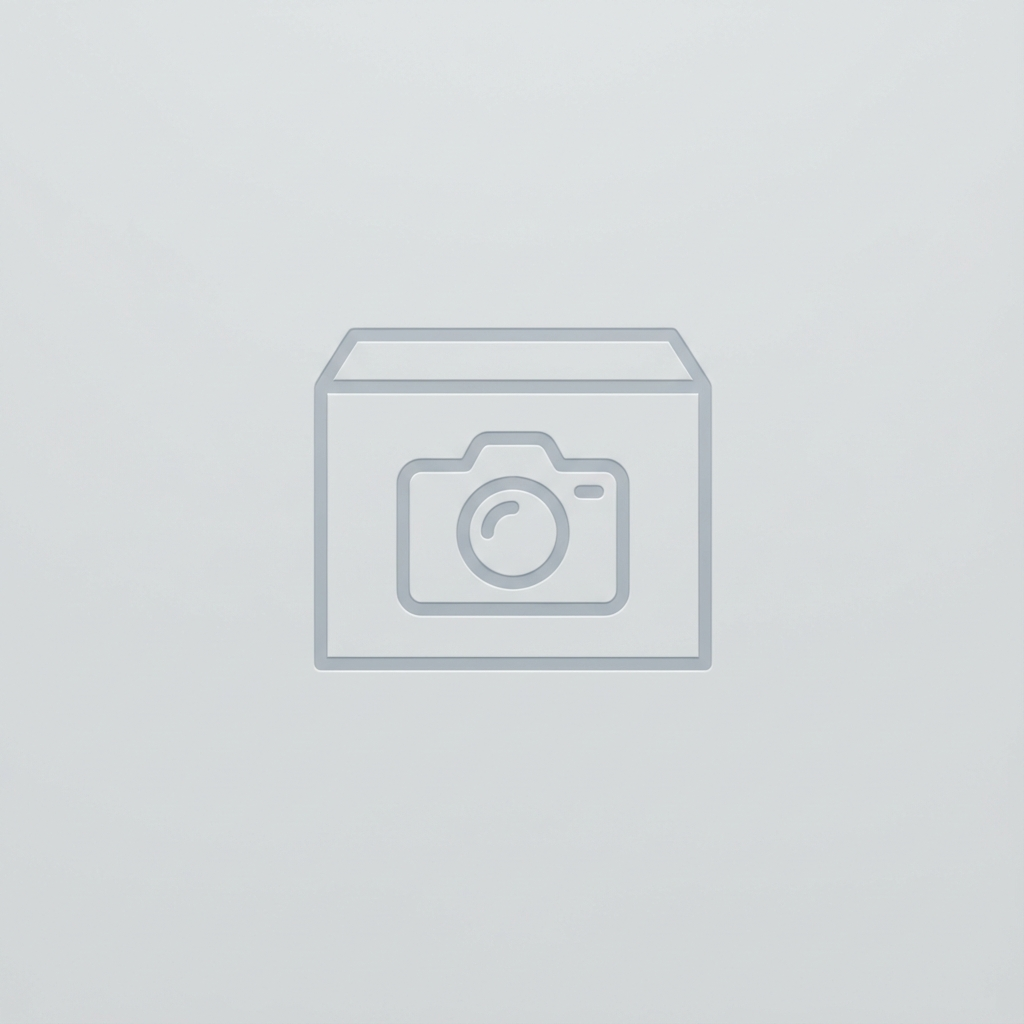
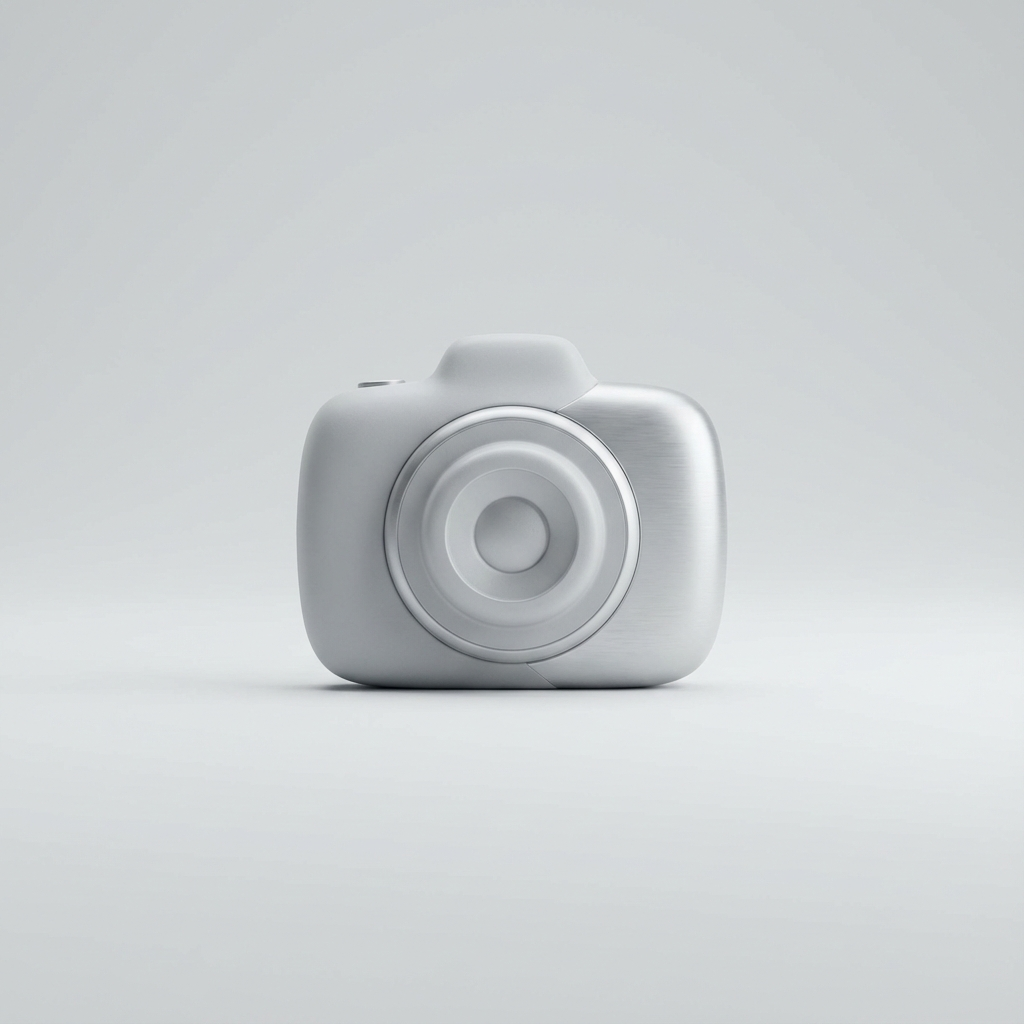
Implementación de Device ID, envíos detallados y manejo de rechazos

diff --git a/bolushop/app/api/create-preference/route.ts b/bolushop/app/api/create-preference/route.ts
@@ -1,103 +1,105 @@
 import { NextRequest, NextResponse } from 'next/server';
-import MercadoPagoConfig, { Preference } from 'mercadopago';
+import { MercadoPagoConfig, Preference } from 'mercadopago';
 import { createOrder } from '@/lib/db';
-import { Order } from '@/lib/types';
-import { CartItem } from '@/lib/cart';
 import { v4 as uuidv4 } from 'uuid';
 
-// Configurar el cliente de Mercado Pago con el Token de Checkout Pro
-const client = new MercadoPagoConfig({
-    accessToken: process.env.MP_PRO_ACCESS_TOKEN || ''
-});
+// Configuración mínima y directa
+const accessToken = process.env.MP_PRO_ACCESS_TOKEN || process.env.MP_ACCESS_TOKEN || '';
+const client = new MercadoPagoConfig({ accessToken });
 
 export async function POST(req: NextRequest) {
     try {
-        const body = await req.json();
-        const { cart, shippingCost, formData } = body;
-
-        if (!cart || cart.length === 0) {
-            return NextResponse.json({ error: 'El carrito está vacío' }, { status: 400 });
-        }
-
+        const { cart, shippingCost, formData } = await req.json();
         const orderId = uuidv4();
 
-        // Determinar URL base para los retornos
-        const protocol = req.headers.get('x-forwarded-proto') || 'https';
-        const host = req.headers.get('host');
-        let baseUrl = process.env.NEXT_PUBLIC_SITE_URL || `${protocol}://${host}`;
-        baseUrl = baseUrl.replace(/\/$/, '');
+        // 1. Detección de URL Base (Simpificada para Localhost)
+        const host = req.headers.get('host') || 'localhost:3000';
+        const protocol = host.includes('localhost') ? 'http' : 'https';
+        const baseUrl = `${protocol}://${host}`;
 
-        // Construir los ítems para Mercado Pago
-        const items = cart.map((item: CartItem) => ({
-            id: item.productId,
+        console.log('--- REWRITE: Creación de Preferencia ---');
+        console.log('Base URL:', baseUrl);
+        console.log('Order ID:', orderId);
+
+        // 2. Mapeo de Items
+        const items = cart.map((item: any) => ({
+            id: item.productId || item.id,
             title: item.name,
             unit_price: Number(item.price),
             quantity: Number(item.quantity),
             currency_id: 'ARS',
-            picture_url: item.image,
-            description: item.name
+            picture_url: item.image?.startsWith('http') ? item.image : `${baseUrl}${item.image}`
         }));
 
-        // Agregar el costo de envío como un ítem si es mayor a 0
         if (shippingCost > 0) {
             items.push({
-                id: 'shipping',
+                id: 'shipping-cost',
                 title: 'Costo de Envío',
                 unit_price: Number(shippingCost),
                 quantity: 1,
-                currency_id: 'ARS',
-                description: 'Envío a domicilio'
+                currency_id: 'ARS'
             });
         }
 
-        const preference = new Preference(client);
-
-        const response = await preference.create({
-            body: {
-                items,
-                payer: {
-                    name: formData.name,
-                    email: formData.email,
-                    phone: {
-                        number: formData.phone.replace(/\D/g, '')
-                    },
-                    address: {
-                        street_name: formData.address,
-                        zip_code: formData.zipCode || '1000'
-                    }
+        // 3. Payload de la Preferencia (Estructura Estricta SDK v2)
+        const preferenceBody: any = {
+            items,
+            payer: {
+                name: formData.name.split(' ')[0] || 'Cliente',
+                surname: formData.name.split(' ').slice(1).join(' ') || 'BoluShop',
+                email: formData.email,
+                phone: {
+                    number: formData.phone?.replace(/\D/g, '') || '1122334455'
                 },
-                back_urls: {
-                    success: `${baseUrl}/exito`,
-                    failure: `${baseUrl}/rechazado`,
-                    pending: `${baseUrl}/exito`
-                },
-                auto_return: 'approved',
-                external_reference: orderId,
-                notification_url: `${baseUrl}/api/webhook/mercadopago`,
-                metadata: {
-                    order_id: orderId,
-                    items: cart
+                address: {
+                    street_name: formData.address || 'Calle Falsa 123',
+                    zip_code: formData.zipCode || '1000'
                 }
-            }
-        });
+            },
+            back_urls: {
+                success: `${baseUrl}/exito`,
+                failure: `${baseUrl}/rechazado`,
+                pending: `${baseUrl}/exito`
+            },
+            auto_return: 'approved',
+            external_reference: orderId,
+            metadata: {
+                order_id: orderId
+            },
+            // NOTA: notification_url NO puede ser localhost para que MP lo acepte
+            notification_url: host.includes('localhost') ? undefined : `${baseUrl}/api/webhook/mercadopago`,
+            binary_mode: true // Mejora la experiencia en Checkout Pro
+        };
 
-        // Crear la orden en estado pendiente antes de redireccionar
-        const orderData: Order = {
+        console.log('Payload Final:', JSON.stringify(preferenceBody, null, 2));
+
+        const preference = new Preference(client);
+        const response = await preference.create({ body: preferenceBody });
+
+        console.log('✅ Preferencia Creada:', response.id);
+
+        // 4. Guardar Orden (Simplificado para evitar errores de tipos)
+        const orderData = {
             id: orderId,
             date: new Date().toISOString(),
             status: 'pending',
-            items: cart,
-            total: Number(cart.reduce((acc: number, item: CartItem) => acc + (item.price * item.quantity), 0)) + Number(shippingCost),
+            items: cart.map((item: any) => ({ ...item, id: item.productId })),
+            total: items.reduce((acc: number, item: any) => acc + (item.unit_price * item.quantity), 0),
             payer: {
                 name: formData.name,
                 email: formData.email,
                 address: `${formData.address}, ${formData.city}, ${formData.province}`,
                 phone: formData.phone
             },
-            paymentId: response.id // ID de la preferencia para rastreo
+            paymentId: response.id
         };
 
-        await createOrder(orderData);
+        try {
+            await createOrder(orderData as any);
+            console.log('✅ Orden guardada en DB');
+        } catch (dbError) {
+            console.error('⚠ Error al guardar en DB (continuando con el pago):', dbError);
+        }
 
         return NextResponse.json({
             id: response.id,
@@ -105,13 +107,17 @@ export async function POST(req: NextRequest) {
         });
 
     } catch (error: any) {
-        console.error('Error al crear preferencia de Mercado Pago:', error);
-        return NextResponse.json(
-            {
-                error: 'Error al iniciar el proceso de pago',
-                details: error.message || 'Error desconocido'
-            },
-            { status: 500 }
-        );
+        console.error('❌ Error en /api/create-preference:', error);
+
+        // Log detallado del error de la API de MP
+        if (error.response) {
+            console.error('Detalle Mercado Pago:', JSON.stringify(error.response, null, 2));
+        }
+
+        return NextResponse.json({
+            error: 'Error al procesar el pago',
+            details: error.message,
+            mp_error: error.response?.message || 'Error desconocido'
+        }, { status: 500 });
     }
 }

diff --git a/bolushop/lib/shipping.ts b/bolushop/lib/shipping.ts
@@ -67,7 +67,7 @@ export function getZoneByAddress(params: {
 }
 
 /**
- * Enhanced shipping cost calculation with multiple fallbacks and error prevention.
+ * Enhanced shipping cost calculation with multiple fall and error prevention.
  */
 export function calculateShippingCost(params: {
     locality: string,
